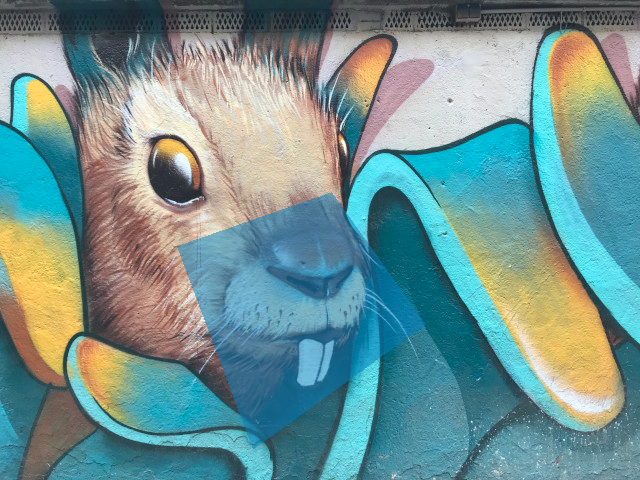
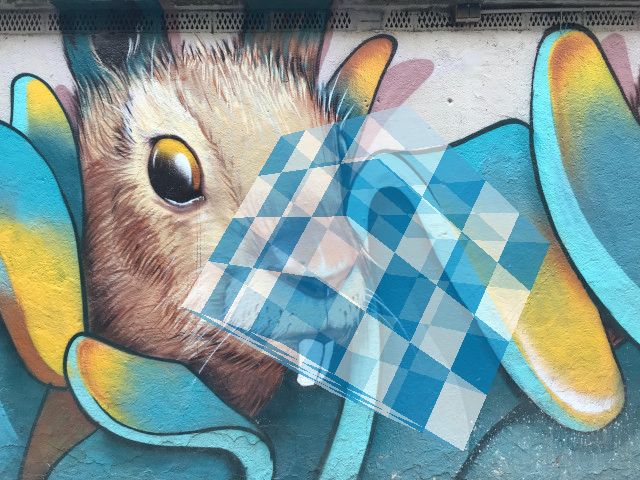
docs(ts-glenz): README, screenshot, effects list for the glass cube

diff --git a/files/effects/ts-glenz/README.md b/files/effects/ts-glenz/README.md
@@ -8,9 +8,43 @@
 
 ## **Algorithm**
 
-A 3D plane is rotated in front of a picture and appears to be transparent.  
-To make it so, we interpolate a new value between each RGBA component from the background image and the color of the plane.  
-The "t" value for the plane is set to 50%.
+The effect is a Glenz vector: a spinning cube made of checkered glass, in front of a picture.
+Where faces overlap, the picture is seen through two layers of glass.
+
+The cube is made of 8 corners and 6 square faces. For each frame, the corners are rotated around the X, Y and Z axes,
+each axis with a different speed (1, 2 and 3 degrees per frame). The cube centre also drifts slowly on two sine waves
+(in x and y only, so it always stays in front of the camera). The corners are then projected on the screen:
+
+```javascript
+k = ZOOM / (z + DEPTH);
+screen_x = center_x + x * k;
+screen_y = center_y + y * k;
+```
+
+Each face is cut into a 4×4 checker of blue and white cells. The grid points are interpolated in 3D between the 4
+corners of the face, then projected: a cell of a flat face stays a convex quad on the screen.
+
+Each cell is drawn as glass: its colour is blended over what is already on the screen, per R, G, B channel:
+
+```javascript
+dst = dst + (color - dst) * alpha;
+```
+
+The cube is convex: seen from the camera, the back faces never overlap each other, and the front faces neither.
+So no sorting is needed, but the order matters: the back faces (seen from inside, through the cube) are drawn first,
+with a lighter alpha, then the front faces over them. A pixel is covered by two layers of glass at most, and where
+a blue cell lies over a white one, the colours mix into the shimmering Glenz look.
+
+A face is a front face when its projected corners turn clockwise:
+
+```javascript
+front = (b.x - a.x) * (c.y - a.y) - (b.y - a.y) * (c.x - a.x) > 0;
+```
+
+The cells are drawn by a reusable flat polygon filler (`files/library/gfx/polygon.ts`). It uses the same top-left
+fill rule as the texture mapper: rows `ceil(ymin) .. ceil(ymax) - 1` and pixels `ceil(xl) .. ceil(xr) - 1`.
+Two cells sharing an edge never both draw the same pixel, nor leave a hole between them, so each layer of glass is
+blended exactly once: there is no seam between the cells, nor along the edges of the cube.
 
 ## **License**
 
